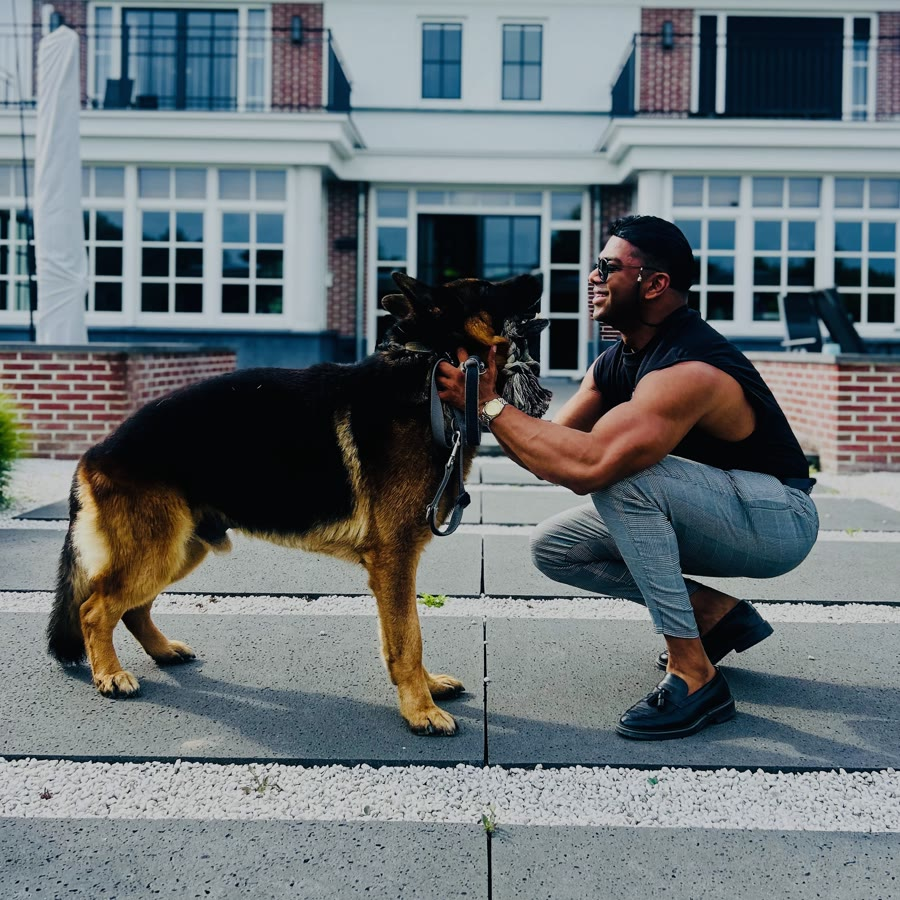
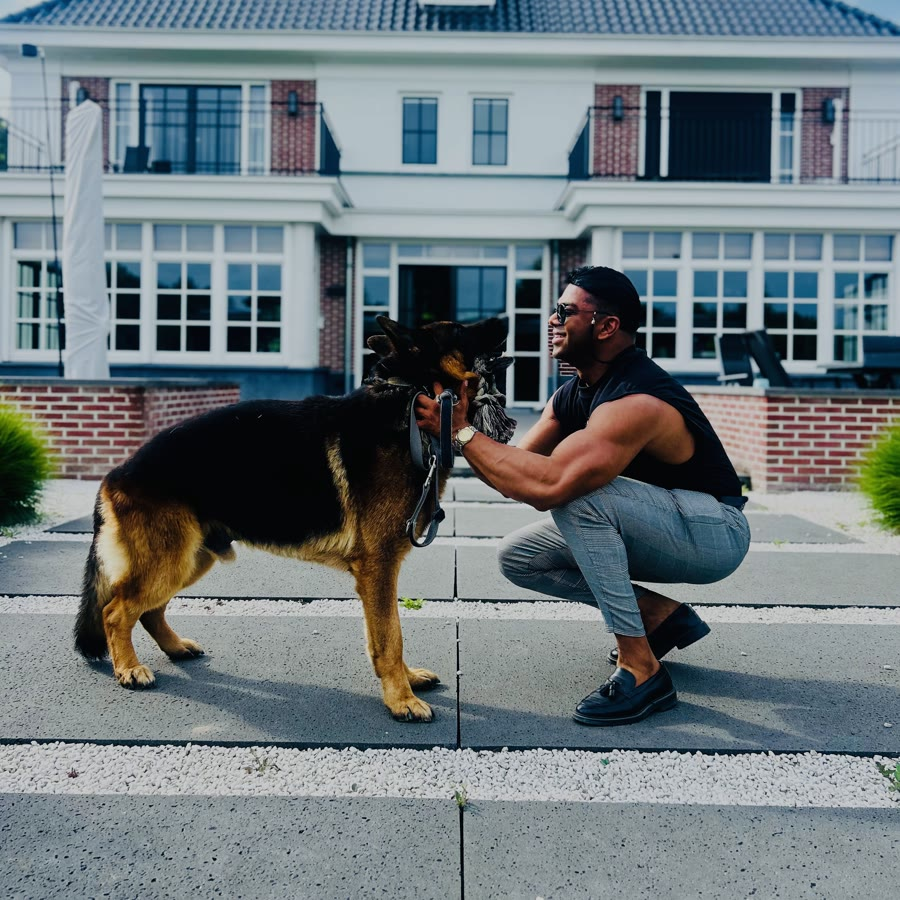
Hero-foto ruimer uitgesneden

diff --git a/index.html b/index.html
@@ -205,7 +205,7 @@
         <div class="portal" id="portal">
           <div class="glow" aria-hidden="true"></div><div class="ring1" aria-hidden="true"></div>
           <div class="ring2" aria-hidden="true"><svg viewBox="0 0 200 200"><defs><path id="pc" d="M100,100 m-88,0 a88,88 0 1,1 176,0 a88,88 0 1,1 -176,0"/></defs><text fill="#ffd36e" font-family="Cinzel" font-size="8.5" letter-spacing="3.4"><textPath href="#pc">✦ AI ✦ TRAVEL ✦ CODE ✦ VERHALEN ✦ VIDEO'S ✦ HET LEVEN ✦ RITESH ✦ </textPath></text></svg></div>
-          <div class="face"><img src="media/hero-foto.jpg" alt="Ritesh Tikai met zijn Duitse herder voor een wit huis" width="900" height="900" fetchpriority="high"></div>
+          <div class="face"><img src="media/hero-foto.jpg?v=2" alt="Ritesh Tikai met zijn Duitse herder voor een wit huis" width="900" height="900" fetchpriority="high"></div>
         </div>
       </div>
     </div>
